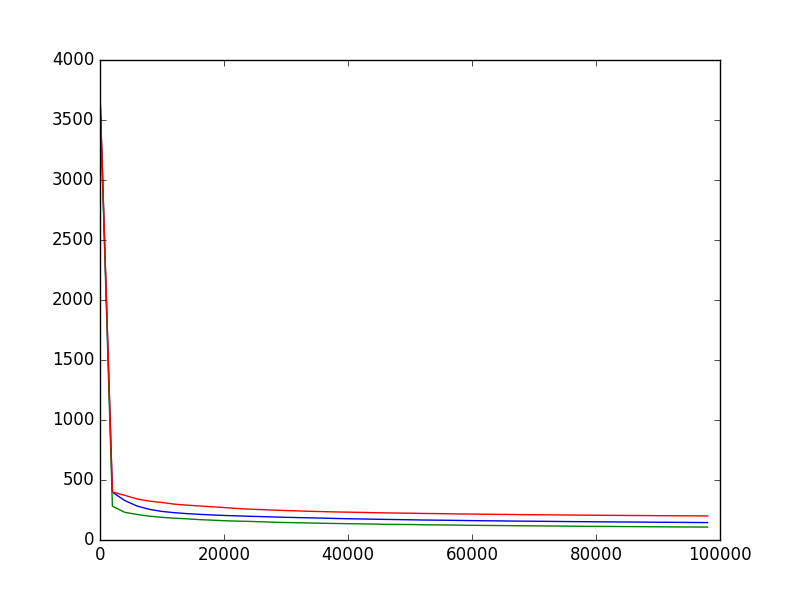
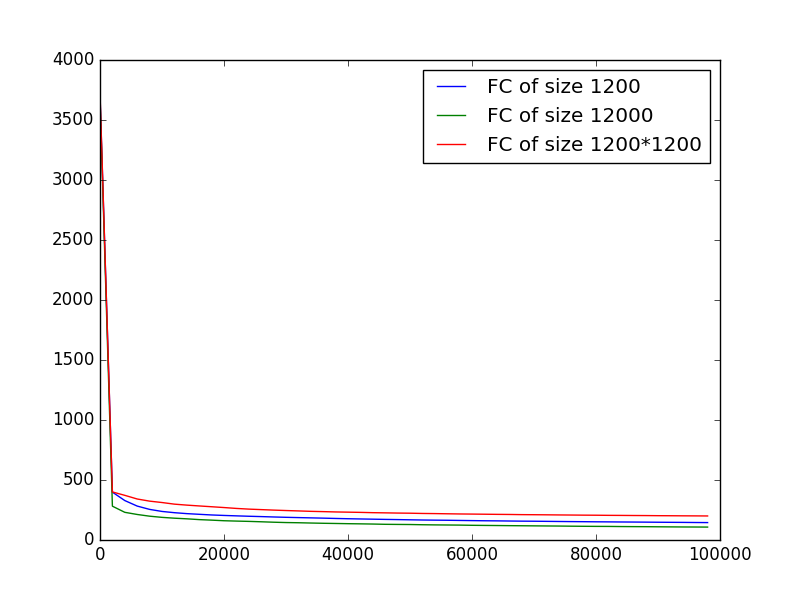
Fix a bug of not showing legend of the test plot

Changed region(s): [[0.5312, 0.09, 0.9062, 0.3], [0.5, 0.12, 0.5312, 0.27]]

diff --git a/error_plot/generate_plot.py b/error_plot/generate_plot.py
@@ -33,7 +33,6 @@ plt.clf()
 plt1200, = plt.plot(epochs, te1200, '-', label='FC of size 1200')
 plt12000, = plt.plot(epochs, te12000, '-', label='FC of size 12000')
 plt1200_1200, = plt.plot(epochs, te1200_1200, '-', label='FC of size 1200*1200')
+plt.legend(handles=[plt1200, plt12000, plt1200_1200])
 plt.savefig('test.png')
 plt.clf()
-
-
